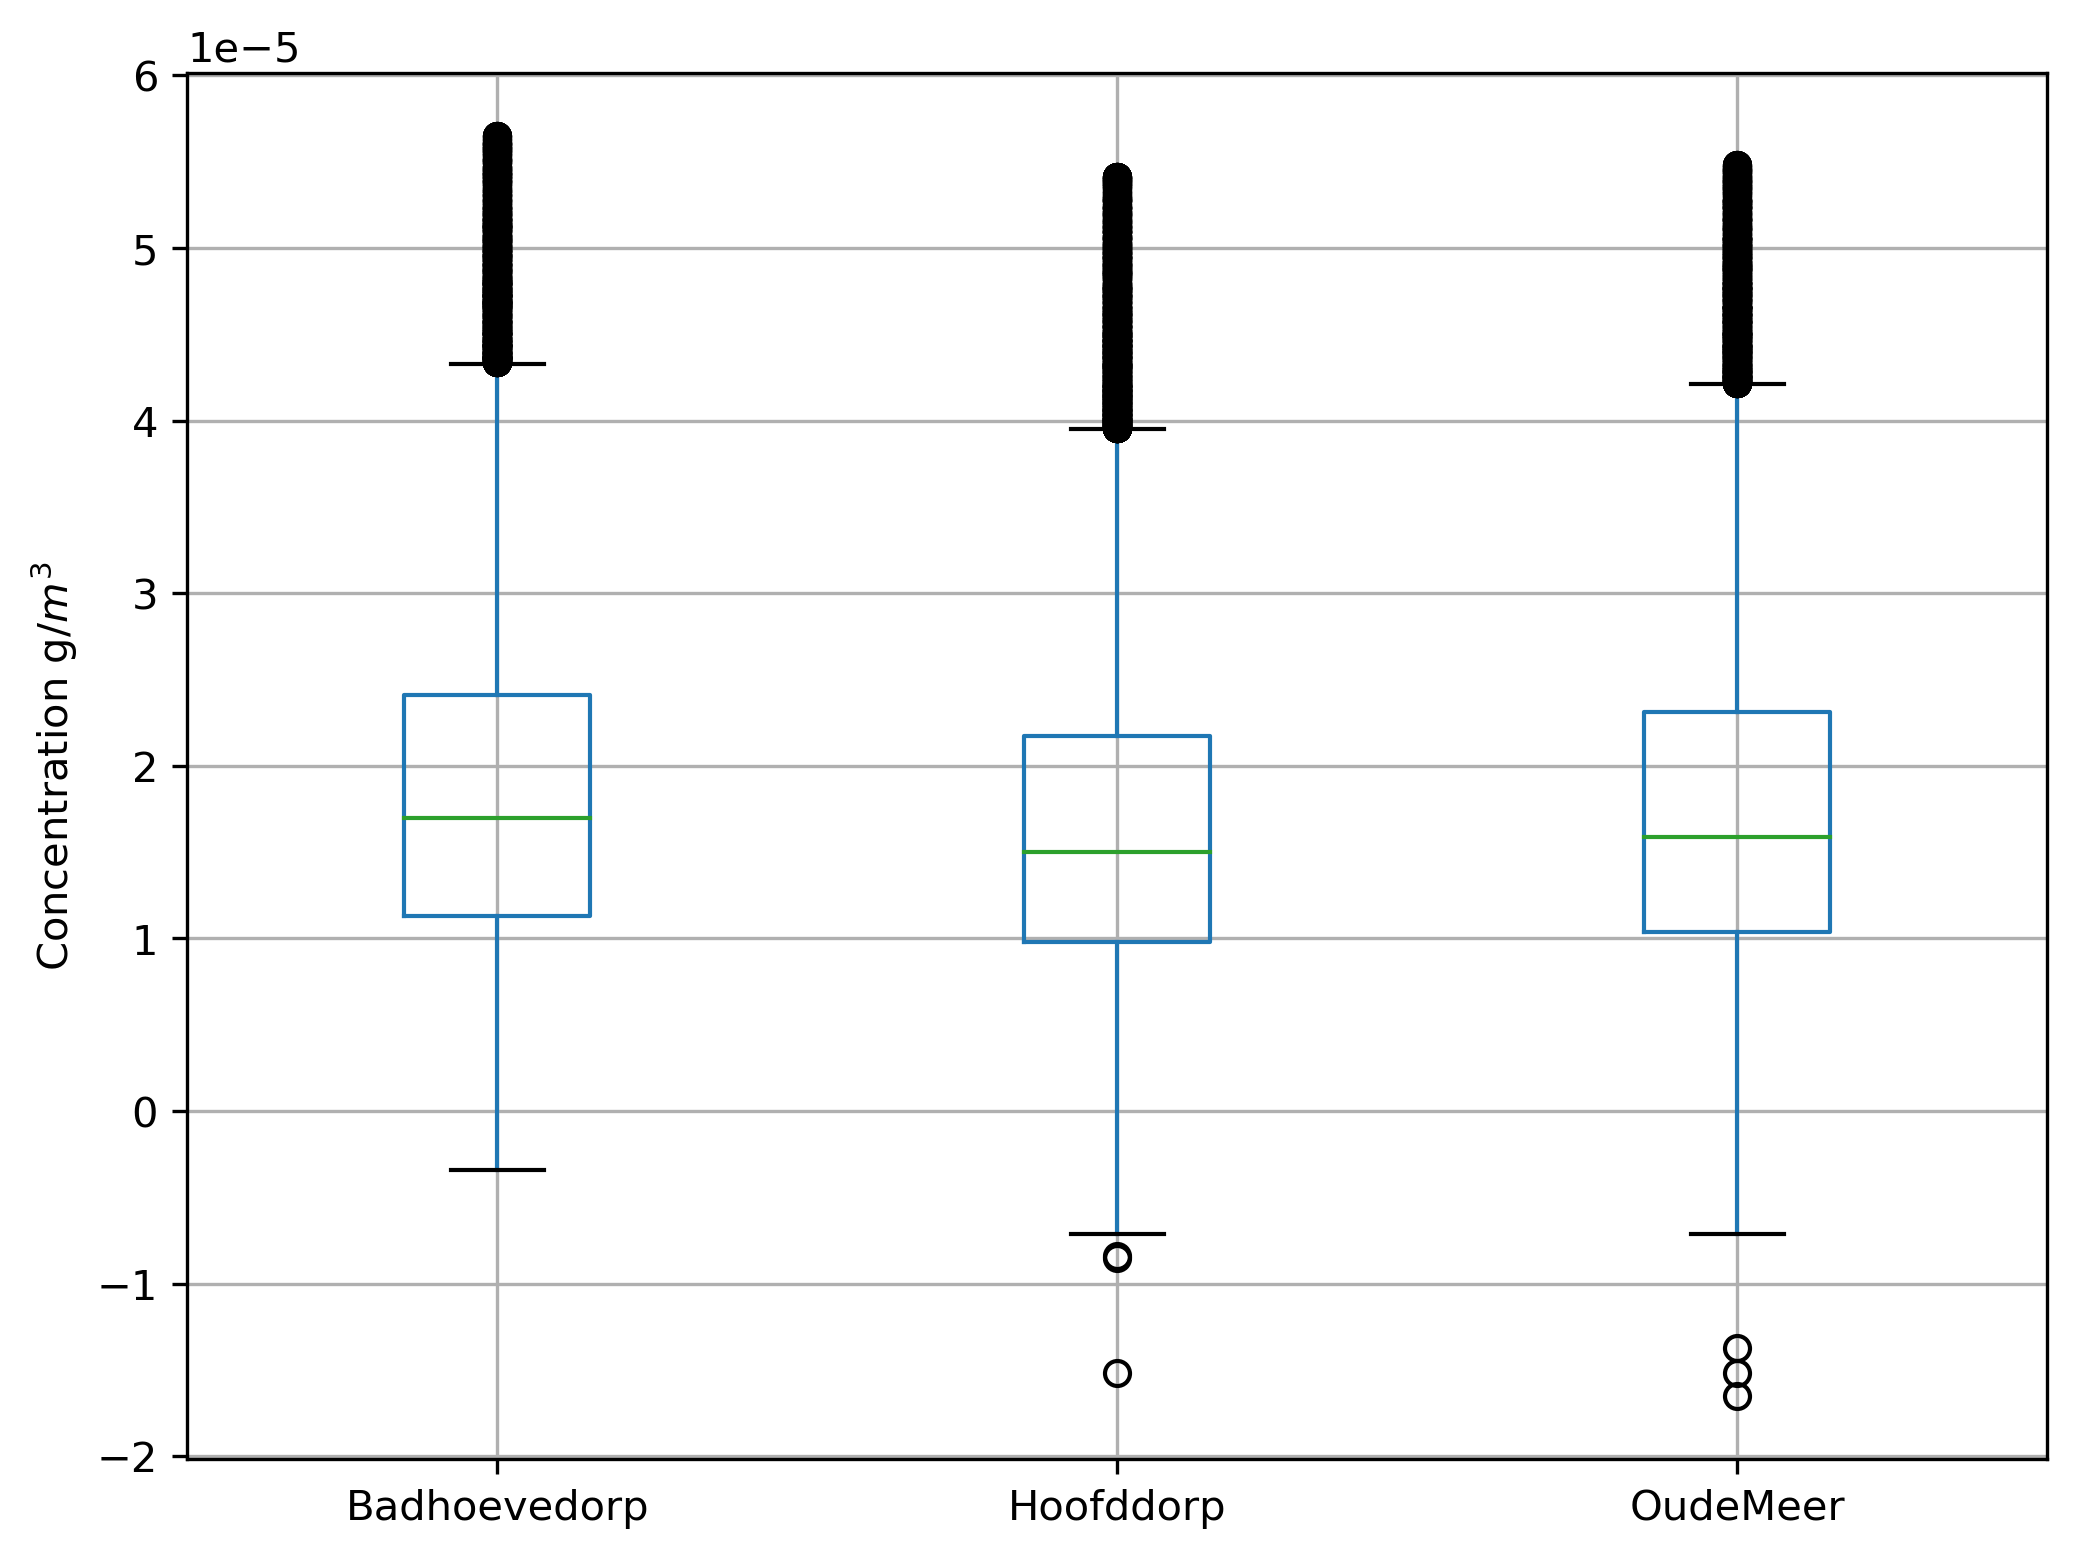
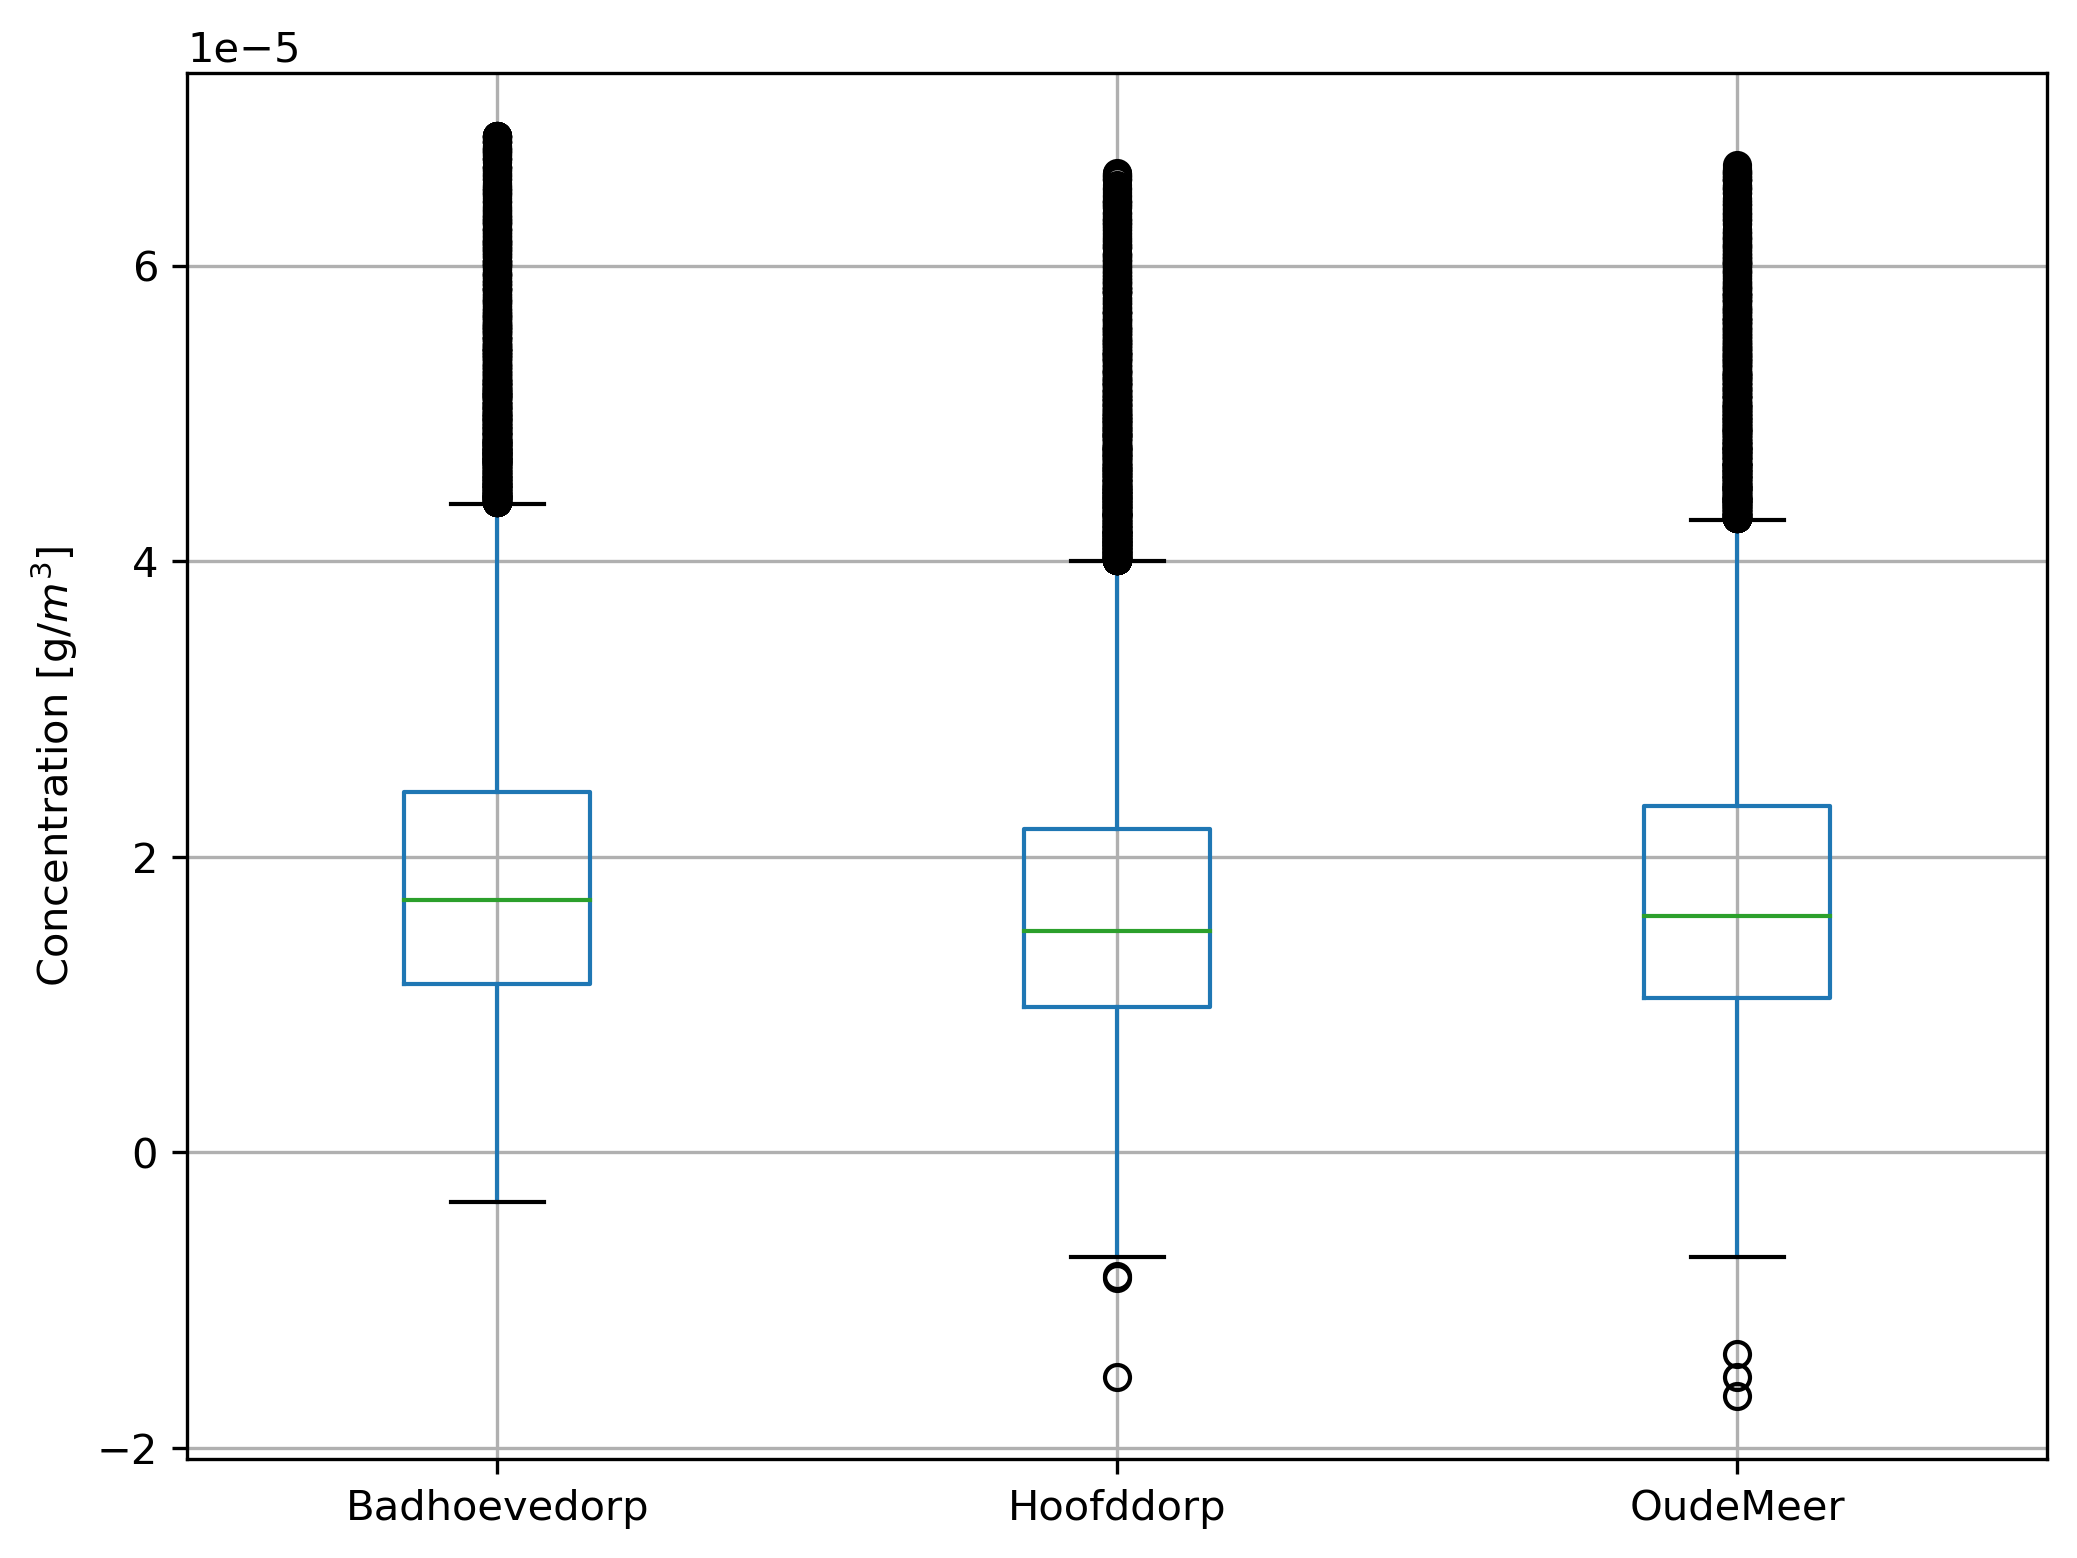
plume modelling updated

diff --git a/PlumeModelling/main.py b/PlumeModelling/main.py
@@ -18,7 +18,7 @@ import numpy as np
 import pandas as pd
 import matplotlib as mpl
 import matplotlib.pyplot as plt
-from math import pi, exp
+from math import pi, exp, sqrt
 from pathlib import Path
 from sympy.solvers import solve
 from sympy.abc import xi, Q
@@ -79,7 +79,9 @@ for species, stations in schiphol_data.items():
 		df.timestamp_measured = pd.to_datetime(df.timestamp_measured, format='%Y-%m-%dT%H:%M:%S+00:00')
 		df = df[df['timestamp_measured'].dt.time.isin(times)] # remove times between 23:00:00 - 06:00:00
 
-		df = df[(np.abs(zscore(df['value'])) < 3)] # remove outliers from dataset which are below/above 3 std. deviations
+		# print(df.value.max())
+
+		df = df[(np.abs(zscore(df['value'])) < 4)] # remove outliers from dataset which are below/above 3 std. deviations
 		# df = df[df.value != 0] # remove rows which measured no concentration; negative concentrations are not excluded
 		df = df.reset_index() # reset indices of dataframe
 		df = df.drop(['index', 'formula'], axis=1) # remove unimportant columns
@@ -99,7 +101,7 @@ exportfolder = 'AQ_Boxplots'
 for key, value in pollutants.items():
 	fig1, ax1 = plt.subplots(nrows=1, ncols=1, squeeze=False, figsize=(8,6)) # create subplots
 
-	ylabel = 'Concentration ' + (r'particles/$m^3$' if key == 'PS' else r'g/$m^3$')
+	ylabel = 'Concentration ' + (r'[particles/$m^3$]' if key == 'PS' else r'[g/$m^3$]')
 
 	value.boxplot(ax=ax1[0,0]) # plot boxplots
 	ax1[0,0].set_ylabel(ylabel)
@@ -120,9 +122,12 @@ func = lambda xi, x, y, z, h, sigma_y, sigma_z, Q: -xi + Q / (2 * pi * sigma_y *
 
 V = 12 # [m/s] freestream velocity
 
-x = np.array([1.445E3, 0.4431E3, 1.339E3]) # minimum distance between station and runway
+# x = np.array([1.445E3, 0.4431E3, 1.339E3]) # minimum distance between station and runway
+
+x = np.array([5000, 6000, 6000])
 
 emissionrates = pd.DataFrame(columns=['Species', 'Q', 'Unit'])
+xi = pd.DataFrame()
 
 for index, key in enumerate(schiphol_data.keys()):
 	unit = 'p/s' if key == 'PS' else 'g/s' # print string of unit into dataframe
@@ -131,14 +136,57 @@ for index, key in enumerate(schiphol_data.keys()):
 	sigma_z = 0.06 * x_i * (1 + 0.0015 * x_i)**(-0.5)
 	sigma_y = 0.08 * x_i * (1 + 0.0001 * x_i)**(-0.5)
 	sigma_y = sigma_y if sigma_y > sigma_z else sigma_z
-	Q_i = solve(func(xi_i, x_i, 0, 0, 0, sigma_y, sigma_z, Q), Q) # FIX X INPUT TO MATCH MEASUREMENT STATION
+	Q_i = solve(func(xi_i, x_i, 0, 0, 0, sigma_y, sigma_z, Q), Q)
 	emissionrates.loc[index] = [concentration.Species.iloc[index], Q_i[0], unit]
 
 emissionrates['Q'] = emissionrates['Q'].astype('float64') # convert object data type to float
 
-print ('\nMaximum Concentration per Pollutant:')
+y = 106 # [m] minimum clearance distance from centerline of runway
+x = (y - 5.75) / (2 * 0.1) #[m] minimum distance before plume hits UAV
+# x = sqrt(x**2 + y**2)
+# y = 0
+x = 106
+y = 0
+z, h = 0, 0
+sigma_z = 0.06 * x * (1 + 0.0015 * x)**(-0.5)
+sigma_y = 0.08 * x * (1 + 0.0001 * x)**(-0.5)
+sigma_y = sigma_y if sigma_y > sigma_z else sigma_z
+xi['value'] = emissionrates['Q'] / (2 * pi * sigma_y * sigma_z * V) * exp( - y**2 / (2 * sigma_y**2) - (z - h)**2 / (2 * sigma_z**2)) #[g/m^3] pollutant concentration
+
+# print ('\nMaximum Concentration per Pollutant:')
+# print ('............................................')
+# print(concentration)
+# print ('\nMaximum Estimated Emission Rate per Pollutant:')
+# print ('............................................')
+# print(emissionrates)
+
+
+R = 0.082057366080960 # [L*atm/(K*mol)]
+T = 283 # [K] averaged yearly temperature around Schiphol airport
+p = 1 # [atm] ambient pressure
+
+c1 = R * T / p 
+c2 = 1000 / c1 
+
+molarmasses = {	'CO': 28.010,
+				'NO': 30.006,
+				'NO2': 46.006,
+				'O3': 47.998,
+				'PM25': 0,
+				'PM10': 0,
+				'PS': 0}
+
+index = 0
+
+for species, mass in molarmasses.items():
+	if mass != 0:
+		c3 = c2 * mass * 1E-6
+		xi.loc[index] *= 1 / c3
+		index += 1
+	else:
+		index += 1
+		pass
+
+print ('\nMaximum EXPECTED Concentration per Pollutant:')
 print ('............................................')
-print(concentration)
-print ('\nMaximum Estimated Emission Rate per Pollutant:')
-print ('............................................')
-print(emissionrates)
+print(xi)

diff --git a/Performance/performance.py b/Performance/performance.py
@@ -247,22 +247,22 @@ PL_max 		= T_max / P_max
 # PLOT DESIGN POINTS
 # ==============================================================================================
 ax1[0,0].axhline(y=T_nom, xmin=0, xmax=1, linestyle='--', color='black')
-ax1[0,0].text(-1, T_nom, r'T$_\mathrm{nom}$', fontsize=14, horizontalalignment='right', verticalalignment='center')
+ax1[0,0].text(1, T_nom, r'T$_\mathrm{nom}$', fontsize=18, horizontalalignment='left', verticalalignment='bottom')
 ax1[0,0].axhline(y=T_max, xmin=0, xmax=(1), linestyle='--', color='black')
-ax1[0,0].text(-1, T_max, r'T$_\mathrm{max}$', fontsize=14, horizontalalignment='right', verticalalignment='center')
+ax1[0,0].text(1, T_max, r'T$_\mathrm{max}$', fontsize=18, horizontalalignment='left', verticalalignment='bottom')
 
 ax1[0,1].axhline(y=P_nom, xmin=0, xmax=1, linestyle='--', color='black')
-ax1[0,1].text(-1, P_nom, r'P$_\mathrm{nom}$', fontsize=14, horizontalalignment='right', verticalalignment='center')
+ax1[0,1].text(1, P_nom, r'P$_\mathrm{nom}$', fontsize=18, horizontalalignment='left', verticalalignment='bottom')
 ax1[0,1].axhline(y=P_max, xmin=0, xmax=1, linestyle='--', color='black')
-ax1[0,1].text(-1, P_max, r'P$_\mathrm{max}$', fontsize=14, horizontalalignment='right', verticalalignment='center')
+ax1[0,1].text(1, P_max, r'P$_\mathrm{max}$', fontsize=18, horizontalalignment='left', verticalalignment='bottom')
 
 ax1[1,0].axhline(y=torque_nom, xmin=0, xmax=1, linestyle='--', color='black')
-ax1[1,0].text(-1, torque_nom, r'$\tau_\mathrm{nom}$', fontsize=14, horizontalalignment='right', verticalalignment='center')
+ax1[1,0].text(1, torque_nom, r'$\tau_\mathrm{nom}$', fontsize=18, horizontalalignment='left', verticalalignment='bottom')
 ax1[1,0].axhline(y=torque_max, xmin=0, xmax=1, linestyle='--', color='black')
-ax1[1,0].text(-1, torque_max, r'$\tau_\mathrm{max}$', fontsize=14, horizontalalignment='right', verticalalignment='center')
+ax1[1,0].text(1, torque_max, r'$\tau_\mathrm{max}$', fontsize=18, horizontalalignment='left', verticalalignment='bottom')
 
 ax1[1,1].axhline(y=PL_nom, xmin=0, xmax=1, linestyle='--', color='black')
-ax1[1,1].text(-1, PL_nom, r'DL$_\mathrm{nom}$', fontsize=14, horizontalalignment='right', verticalalignment='top')
+ax1[1,1].text(1, PL_nom, r'PL$_\mathrm{nom}$', fontsize=18, horizontalalignment='left', verticalalignment='bottom')
 
 fig1.savefig('performance_propellers.png', bbox_inches='tight', dpi=300)
 
